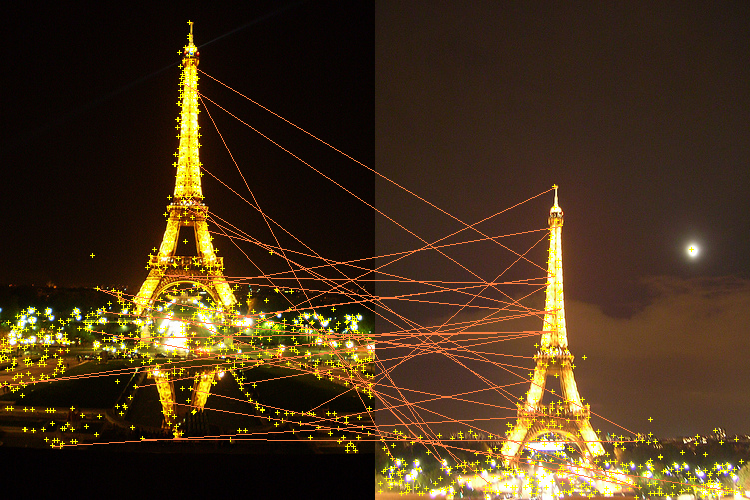
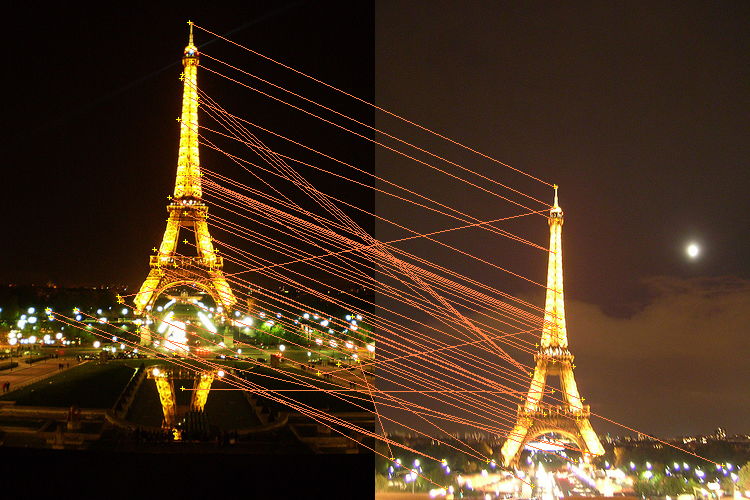
Final chnages for part3

diff --git a/a2.cpp b/a2.cpp
@@ -15,6 +15,8 @@
 // #include <tgmath.h>
 #include <math.h>
 #include <float.h>
+#include <cstdlib>
+#include <ctime>
 
 //Use the cimg namespace to access functions easily
 using namespace cimg_library;
@@ -32,6 +34,13 @@ struct line{
     int x_1,y_1;
     int x_2,y_2;
 };
+
+struct Model{
+CImg <double> transform_matrix;
+int maxInliners;
+std::vector<line> match_lines;
+};
+
 CImg <double> draw_descriptor_image(CImg<double> image, const vector<SiftDescriptor> descriptors, const char *filename)
 {
   for(unsigned int i=0; i < descriptors.size(); i++)
@@ -54,6 +63,40 @@ CImg <double> draw_descriptor_image(CImg<double> image, const vector<SiftDescrip
   image.get_normalize(0,255).save(filename);
   return image;
 }
+
+CImg <double> draw_descriptor_image(CImg<double> image, const vector<line> match_lines, const char *filename)
+{
+  for(unsigned int i=0; i < match_lines.size(); i++)
+    {
+      int tx1 = 0, ty1 = 0, tx2 = 0, ty2 = 0;
+      double color_point[] = {255.0, 255.0, 0};
+      for(int x=-2; x<3; x++)
+    for(int y=-2; y<3; y++)
+      if(x==0 || y==0)
+        for(int c=0; c<3; c++){
+          //Find if coordinates are in workspace to draw crosshair
+          tx1 = (match_lines[i].x_1 + y - 1);
+          ty1 = (match_lines[i].y_1 + x - 1);
+
+          tx2=(match_lines[i].x_2+y-1);
+          ty2 = (match_lines[i].y_2 + x - 1);
+
+          if (tx1 >= 0 && tx1 < image.width() && ty1 >= 0 && ty1 < image.height())
+          { 
+        image( tx1, ty1, 0, c) = color_point[c];        
+          }             
+         if (tx2 >= 0 && tx2 < image.width() && ty2 >= 0 && ty2 < image.height())
+          { 
+        image( tx2, ty2, 0, c) = color_point[c];        
+          }             
+           
+        }
+    }
+  image.get_normalize(0,255).save(filename);
+  return image;
+}
+
+
 
 void getCofactor(double A[N][N], double temp[N][N], int p, int q, int n)
 {
@@ -177,44 +220,45 @@ void getWarpedImage(CImg<double> input_image,double projectiveTransform[][3])
 
 CImg<double> getTransformationMatrix(int x1,int y1,int x2,int y2,int x3,int y3,int x4,int y4,int X1,int Y1,int X2,int Y2,int X3,int Y3,int X4,int Y4)
 {
-	CImg<long double> A(8,8);
-	A(0,0) = double(x1); A(0,1) = double(y1); A(0,2) = double(1); A(0,3) = double(0); A(0,4) = double(0); A(0,5) = double(0); A(0,6) = double(-x1*X1); A(0,7) = double(-y1*X1);
+    CImg<long double> A(8,8);
+    A(0,0) = double(x1); A(0,1) = double(y1); A(0,2) = double(1); A(0,3) = double(0); A(0,4) = double(0); A(0,5) = double(0); A(0,6) = double(-x1*X1); A(0,7) = double(-y1*X1);
 
-	A(1,0) = double(0); A(1,1) = double(0); A(1,2) = double(0); A(1,3) = double(x1); A(1,4) = double(y1); A(1,5) = double(1); A(1,6) = double(-x1*Y1); A(1,7) = double(-y1*Y1);
+    A(1,0) = double(0); A(1,1) = double(0); A(1,2) = double(0); A(1,3) = double(x1); A(1,4) = double(y1); A(1,5) = double(1); A(1,6) = double(-x1*Y1); A(1,7) = double(-y1*Y1);
 
-	A(2,0) = double(x2); A(2,1) = double(y2); A(2,2) = double(1); A(2,3) = double(0); A(2,4) = double(0); A(2,5) = double(0); A(2,6) = double(-x2*X2); A(2,7) = double(-y2*X2);
+    A(2,0) = double(x2); A(2,1) = double(y2); A(2,2) = double(1); A(2,3) = double(0); A(2,4) = double(0); A(2,5) = double(0); A(2,6) = double(-x2*X2); A(2,7) = double(-y2*X2);
 
-	A(3,0) = double(0); A(3,1) = double(0); A(3,2) = double(0); A(3,3) = double(x2); A(3,4) = double(y2); A(3,5) = double(1); A(3,6) = double(-x2*Y2); A(3,7) = double(-y2*Y2);
+    A(3,0) = double(0); A(3,1) = double(0); A(3,2) = double(0); A(3,3) = double(x2); A(3,4) = double(y2); A(3,5) = double(1); A(3,6) = double(-x2*Y2); A(3,7) = double(-y2*Y2);
 
-	A(4,0) = double(x3); A(4,1) = double(y3); A(4,2) =double(1); A(4,3) = double(0); A(4,4) = double(0); A(4,5) = double(0); A(4,6) =double(-x3*X3); A(4,7) = double(-y3*X3);
+    A(4,0) = double(x3); A(4,1) = double(y3); A(4,2) =double(1); A(4,3) = double(0); A(4,4) = double(0); A(4,5) = double(0); A(4,6) =double(-x3*X3); A(4,7) = double(-y3*X3);
 
-	A(5,0) = double(0); A(5,1) = double(0); A(5,2) = double(0); A(5,3) = double(x3); A(5,4) = double(y3); A(5,5) = double(1); A(5,6) = double(-x3*Y3); A(5,7) = double(-y3*Y3);
+    A(5,0) = double(0); A(5,1) = double(0); A(5,2) = double(0); A(5,3) = double(x3); A(5,4) = double(y3); A(5,5) = double(1); A(5,6) = double(-x3*Y3); A(5,7) = double(-y3*Y3);
 
-	A(6,0) = double(x4); A(6,1) = double(y4); A(6,2) = double(1); A(6,3) = double(0); A(6,4) = double(0); A(6,5) = double(0); A(6,6) = double(-x4*X4); A(6,7) = double(-y4*X4);
+    A(6,0) = double(x4); A(6,1) = double(y4); A(6,2) = double(1); A(6,3) = double(0); A(6,4) = double(0); A(6,5) = double(0); A(6,6) = double(-x4*X4); A(6,7) = double(-y4*X4);
 
-	A(7,0) = double(0); A(7,1) = double(0); A(7,2) = double(0); A(7,3) = double(x4); A(7,4) = double(y4); A(7,5) = double(1); A(7,6) = double(-x4*Y4); A(7,7) = double(-y4*Y4);
+    A(7,0) = double(0); A(7,1) = double(0); A(7,2) = double(0); A(7,3) = double(x4); A(7,4) = double(y4); A(7,5) = double(1); A(7,6) = double(-x4*Y4); A(7,7) = double(-y4*Y4);
 
-	CImg<long double> B(1,8);
-	//	cout<<B.width()<<endl;
-	CImg<double> X(3,3);
-	B(0,0) = X1;
-	B(0,1) = Y1;	
-	B(0,2) = X2;
-	B(0,3) = Y2;
-	B(0,4) = X3;
-	B(0,5) = Y3;
-	B(0,6) = X4;
-	B(0,7) = Y4;
 
-	X = B.solve(A.transpose());
+    CImg<long double> B(1,8);
+    //  cout<<B.width()<<endl;
+    CImg<double> X(3,3);
+    B(0,0) = X1;
+    B(0,1) = Y1;    
+    B(0,2) = X2;
+    B(0,3) = Y2;
+    B(0,4) = X3;
+    B(0,5) = Y3;
+    B(0,6) = X4;
+    B(0,7) = Y4;
 
-	CImg<double> result(3,3);
-	cimg_forXY(result,i,j)
-	{
-		result(i,j) = X(i,j);
-	}
-	result(2,2) = 1;	
-	return result;
+    X = B.solve(A.transpose());
+    return X;
+    /*CImg<double> result(3,3);
+    cimg_forXY(result,i,j)
+    {
+        result(i,j) = X(i,j);
+    }
+    result(2,2) = 1;    
+    return result;*/
 }
 
 
@@ -231,6 +275,7 @@ CImg<double> drawLines(CImg<double> image,std::vector<line> lineVector){
 bool comparator_function(data_tuple obj_1,data_tuple obj_2){
     return (obj_1.short_distance<obj_2.short_distance);
 }
+
 
 double getEuclideanDistance(std::vector<float> datapoint_1,std::vector<float> datapoint_2){
 double distance=0.0;
@@ -267,12 +312,49 @@ for(int i=0;i<max_height;i++){
 return stiched_image;
 }
 
-CImg<double> getMatchingWithBruteForce(CImg<double> input_image_1,CImg<double> input_image_2,double threshold=0.68) {
+void draw_sift_matches(CImg<double> input_image_1,CImg<double> input_image_2,std::vector<data_tuple> matching_vectors,int max_width,const char* output_file_name){
+    
+    vector<SiftDescriptor> image_1_descriptors=Sift::compute_sift(input_image_1.get_RGBtoHSI().get_channel(2));
+    vector<SiftDescriptor> image_2_descriptors=Sift::compute_sift(input_image_2.get_RGBtoHSI().get_channel(2));
+    for(int i=0;i<image_2_descriptors.size();i++){
+    image_2_descriptors[i].col=image_2_descriptors[i].col+max_width;
+    }
+    CImg <double> stiched_image=stcichImages(input_image_1,input_image_2);
+    CImg<double> sift_descriptor;
+    sift_descriptor=draw_descriptor_image(stiched_image,image_1_descriptors,"image_sift.png");
+    sift_descriptor=draw_descriptor_image(sift_descriptor,image_2_descriptors,"image_sift.png");
+    std::vector<line>lineVector;
+    for(int i=0;i<matching_vectors.size();i++){
+        int row_1=image_1_descriptors[matching_vectors[i].feature_point_1].col;
+        int col_1=image_1_descriptors[matching_vectors[i].feature_point_1].row;
+        int row_2=image_2_descriptors[matching_vectors[i].feature_point_2].col;
+        int col_2=image_2_descriptors[matching_vectors[i].feature_point_2].row;
+        lineVector.push_back({row_1,col_1,row_2,col_2});
+        }
 
-// input_image_1=input_image_1.resize(input_image_2.width(),input_image_2.height());
-// input_image_1.save("resized.png");
-// temp.append_object3d(input_image_2).save("merged.png");
-    cout<<"C:"<<input_image_1(1,1,0,1)<<endl;
+    CImg<double> sift_match_image=drawLines(sift_descriptor,lineVector);
+    sift_match_image.save(output_file_name);
+}
+void draw_sift_matches(CImg<double> input_image_1,CImg<double> input_image_2,std::vector<line> lineVector,int max_width,const char* output_file_name){
+    
+    vector<SiftDescriptor> image_1_descriptors=Sift::compute_sift(input_image_1.get_RGBtoHSI().get_channel(2));
+    vector<SiftDescriptor> image_2_descriptors=Sift::compute_sift(input_image_2.get_RGBtoHSI().get_channel(2));
+
+    std::vector<SiftDescriptor> v;
+    for(int i=0;i<image_2_descriptors.size();i++){
+    image_2_descriptors[i].col=image_2_descriptors[i].col+max_width;
+    }
+    CImg <double> stiched_image=stcichImages(input_image_1,input_image_2);
+    CImg<double> sift_descriptor;
+    for(int i=0;i<lineVector.size();i++){
+        lineVector[i].x_2=lineVector[i].x_2+max_width;
+    }
+    sift_descriptor=draw_descriptor_image(stiched_image,lineVector,output_file_name);
+    CImg<double> sift_match_image=drawLines(sift_descriptor,lineVector);
+    sift_match_image.save(output_file_name);
+}
+
+std::vector<line> get_sift_matching(CImg<double> input_image_1,CImg<double> input_image_2,double threshold=0.75) {
     int max_width,max_height;
     if(input_image_1.height()<=input_image_2.height()){
         max_height=input_image_2.height();
@@ -287,17 +369,9 @@ CImg<double> getMatchingWithBruteForce(CImg<double> input_image_1,CImg<double> i
         max_width=input_image_1.width();
      }
 input_image_1=input_image_1.resize(max_width,max_height);
-// input_image_1.save("resize_1.png");
-
 input_image_2=input_image_2.resize(max_width,max_height);
-// input_image_2.save("resize_2.png");
-
-CImg <double> stiched_image=stcichImages(input_image_1,input_image_2);
-// stiched_image.save("stiched_image.png");
-
 vector<SiftDescriptor> image_1_descriptors=Sift::compute_sift(input_image_1.get_RGBtoHSI().get_channel(2));
 vector<SiftDescriptor> image_2_descriptors=Sift::compute_sift(input_image_2.get_RGBtoHSI().get_channel(2));
-
 std::vector<data_tuple> matching_vectors;
 
 for(int i=0;i<image_1_descriptors.size();i++){
@@ -306,7 +380,6 @@ for(int i=0;i<image_1_descriptors.size();i++){
     double sd_2=DBL_MAX;
     double curr_distance;
     for(int j=0;j<image_2_descriptors.size();j++){
-        // sift descriptor
         curr_distance=getEuclideanDistance(image_1_descriptors[i].descriptor,image_2_descriptors[j].descriptor); 
         if(curr_distance<sd_1){
             point_2=point_1;
@@ -325,15 +398,10 @@ for(int i=0;i<image_1_descriptors.size();i++){
     if((point_2!=-1)&&(d_ratio<=threshold)){
         matching_vectors.push_back({i,point_1,sd_1});
     }
+
 }
-for(int i=0;i<image_2_descriptors.size();i++){
-    image_2_descriptors[i].col=image_2_descriptors[i].col+max_width;
-}
-// std::sort(matching_vectors.begin(),matching_vectors.end(),comparator_function);
-CImg<double> sift_descriptor;
-sift_descriptor=draw_descriptor_image(stiched_image,image_1_descriptors,"image_1_sift.png");
-sift_descriptor=draw_descriptor_image(sift_descriptor,image_2_descriptors,"image_sift.png");
-std::vector<line>lineVector;
+    std::vector<line>lineVector;
+    
 for(int i=0;i<matching_vectors.size();i++){
     int row_1=image_1_descriptors[matching_vectors[i].feature_point_1].col;
     int col_1=image_1_descriptors[matching_vectors[i].feature_point_1].row;
@@ -341,9 +409,92 @@ for(int i=0;i<matching_vectors.size();i++){
     int col_2=image_2_descriptors[matching_vectors[i].feature_point_2].row;
     lineVector.push_back({row_1,col_1,row_2,col_2});
     }
-CImg<double> sift_match_image=drawLines(sift_descriptor,lineVector);
-sift_match_image.save("sift_match.png");
+    draw_sift_matches(input_image_1,input_image_2,lineVector,max_width,"sift_match.png");
+   return lineVector;
+
 }
+
+Model generateRansacModel(CImg<double> image1, CImg<double> image2)
+{
+    
+
+    struct Model ransac_model;
+    vector<line> siftCorrespondence = get_sift_matching(image1, image2);
+    int iterationCount = 30000, i, j, inliner, maxInline=-2147483648;
+    double x_1, y_1, x_2, y_2, X1, Y1, h;
+    line l1, l2, l3, l4;
+    CImg<double> tranformMatrix, bestMatrix;
+    std::vector<line> sift_match_lines;
+    for(i=0;i<iterationCount;i++)
+    {
+        std::srand(unsigned(std::time(0)));
+        std::random_shuffle(siftCorrespondence.begin(), siftCorrespondence.end());
+        l1 = siftCorrespondence.at(0);
+        l2 = siftCorrespondence.at(1);
+        l3 = siftCorrespondence.at(2);
+        l4 = siftCorrespondence.at(3);
+        inliner = 0;
+        std::vector<line> temp;
+         tranformMatrix = getTransformationMatrix(l1.x_1,l1.y_1,l2.x_1,l2.y_1,l3.x_1,l3.y_1,l4.x_1,l4.y_1,l1.x_2,l1.y_2,l2.x_2,l2.y_2,l3.x_2,l3.y_2,l4.x_2,l4.y_2);
+        for(j=4;j<siftCorrespondence.size();j++)
+        {
+            x_1 = siftCorrespondence.at(j).x_1;
+            y_1 = siftCorrespondence.at(j).y_1;
+            x_2 = siftCorrespondence.at(j).x_2;
+            y_2 = siftCorrespondence.at(j).y_2;
+            
+            X1 = tranformMatrix(0,0)*x_1 + tranformMatrix(0,1)*y_1 + tranformMatrix(0,2)*1;
+            Y1 = tranformMatrix(0,3)*x_1 + tranformMatrix(0,4)*y_1 + tranformMatrix(0,5)*1;
+            h =  tranformMatrix(0,6)*x_1 + tranformMatrix(0,7)*y_1 + 1;
+            
+            X1/=h;
+            Y1/=h;
+            
+            if(abs(X1-x_2) <= 10 and abs(Y1-y_2) <= 10){
+                temp.push_back({x_1,y_1,x_2,y_2});
+                inliner++;
+            }
+        }
+        
+
+        if(inliner > maxInline)
+        {
+            maxInline = inliner;
+            bestMatrix = tranformMatrix;
+            sift_match_lines=temp;
+        }
+
+    }
+    ransac_model.transform_matrix=bestMatrix;
+    ransac_model.maxInliners=maxInline;
+    ransac_model.match_lines=sift_match_lines;
+    return ransac_model;
+
+}
+
+CImg<double> sift_match_pruning(CImg<double> input_image_1,CImg <double> input_image_2){
+
+    int max_width,max_height;
+    if(input_image_1.height()<=input_image_2.height()){
+        max_height=input_image_2.height();
+    }
+    else{
+        max_height=input_image_1.height();
+    }
+     if(input_image_1.width()<=input_image_2.width()){
+        max_width=input_image_2.width();
+     }
+     else{
+        max_width=input_image_1.width();
+     }
+input_image_1=input_image_1.resize(max_width,max_height);
+input_image_2=input_image_2.resize(max_width,max_height);
+Model ransac_model=generateRansacModel(input_image_1,input_image_2);
+// draw_sift_matches(input_image_1,input_image_2,ransac_model.match_lines,max_width,"sift_ransac_match.jpg");
+draw_sift_matches(input_image_1,input_image_2,ransac_model.match_lines,max_width,"sift_ransac_match.png");
+
+}
+
 
 int main(int argc, char **argv)
 {
@@ -621,7 +772,11 @@ int main(int argc, char **argv)
 	string file_2=argv[3];
 	CImg<double> input_image_1(argv[2]);
 	CImg<double> input_image_2(argv[3]);
-	getMatchingWithBruteForce(input_image_1,input_image_2);
+	get_sift_matching(input_image_1,input_image_2);
+    sift_match_pruning(input_image_1,input_image_2);
+ //    sift_matching_pruning(input_image_1,input_image_2);
+    // generateRansacModel(input_image_1,input_image_2);
+
 	
 	}
 	else if(part == "part4"){
